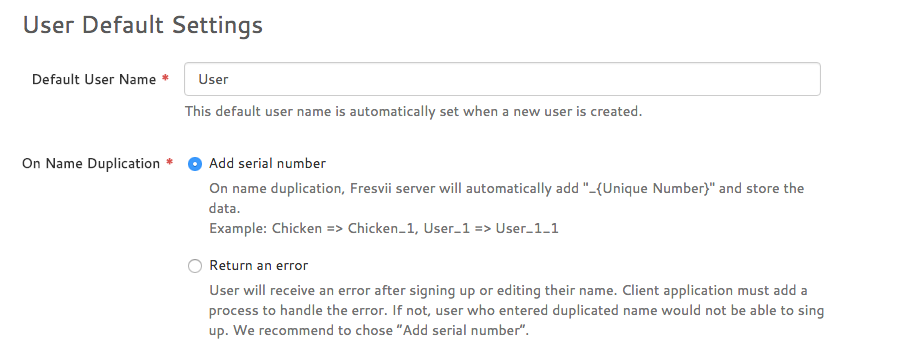
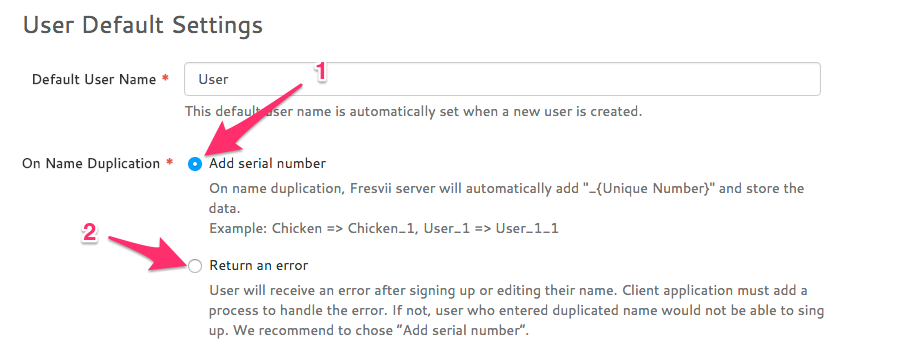
Added description about user name duplication to FASUser specification.

Changed region(s): [[0.182, 0.2479, 0.3337, 0.4958], [0.091, 0.6197, 0.2124, 0.7746], [0.3337, 0.1859, 0.364, 0.2479]]

diff --git a/ja/Specs/Spec-User.md b/ja/Specs/Spec-User.md
@@ -42,7 +42,8 @@ last update at 2014/10/8
 |[currentLoggedInUser](#FASAccount.currentLoggedInUser) |現在ログイン中のユーザーを返却します。 |
 
 ##### <a name="FASAccount.signUpUserWithCompletion">　signUpUserWithCompletion: </a>
-何も指定せずにサインアップをします。
+何も指定せずにサインアップをします。  
+ユーザー重複時の挙動に関しては[こちら](../8_ユーザー名重複時の挙動に関して.md)を参照してください。
 
 \+ (void)signUpUserWithCompletion:(FASLoginUserHandler)completion
 
@@ -69,7 +70,8 @@ Sample
 ```
 
 ##### <a name="FASAccount.signUpUserWithNamecompletion"> signUpUserWithName:completion: </a>
-ユーザー名を指定してサインアップをします。
+ユーザー名を指定してサインアップをします。  
+ユーザー重複時の挙動に関しては[こちら](../8_ユーザー名重複時の挙動に関して.md)を参照してください。
 
 \+ (void)signUpUserWithName:(NSString *)userName
                   completion:(FASLoginUserHandler)completion
@@ -99,7 +101,8 @@ Sample
 ```
 
 ##### <a name="FASAccount.signUpUserWithNamedescriptionprofileImagecompletion"> signUpUserWithName:description:profileImage:completion: </a>
-指定したユーザー名、プロフィール文、プロフィール画像でサインアップをします。
+指定したユーザー名、プロフィール文、プロフィール画像でサインアップをします。  
+ユーザー重複時の挙動に関しては[こちら](../8_ユーザー名重複時の挙動に関して.md)を参照してください。
 
 \+ (void)signUpUserWithName:(NSString *)userName
                 description:(NSString *)description
@@ -476,7 +479,8 @@ typedef void (^FASLoginUserCompletionHandler)(FASLoginUser *loginUser, NSError *
 |[reset](#FASLoginUser.reset) |プロフィールを変更前に戻します。 |
 
 ##### <a name="FASLoginUser.saveWithCompletion"> saveWithCompletion: </a>
-プロフィールの変更をサーバーに保存します。
+プロフィールの変更をサーバーに保存します。  
+ユーザー重複時の挙動に関しては[こちら](../8_ユーザー名重複時の挙動に関して.md)を参照してください。
 
 \- (void)saveWithCompletion:(FASCompletionHandler)completion
 

diff --git a/ja/8_ユーザー名重複時の挙動に関して.md b/ja/8_ユーザー名重複時の挙動に関して.md
@@ -18,14 +18,32 @@
 例えば`Chicken`というユーザー名が既に利用されてた場合、同じ名前でサインアップまたは名前変更を行おうとした場合、`Chicken_1`という名前で自動的に登録されるようになります。
 
 ### 2を選択した場合
-ユーザー名が重複した場合はAPIで下記のようなエラーを返却するようになります。
+ユーザー名が重複した場合はAPIで下記のようなエラーがNSErrorオブジェクトに格納されて返却されます。
 
 ```
-
+Error Domain=com.fresvii.fresvii-sdk-ios.error Code=2002 "The operation couldn’t be completed. (com.fresvii.fresvii-sdk-ios.error error 2002.)" UserInfo=0x7fe220d1c3e0 {code=0402, message=Validation failed: Name has already been taken, params=<CFBasicHash 0x7fe220dadd40 [0x11469e180]>{type = immutable dict, count = 3,
+entries =>
+ 0 : <CFString 0x7fe220d8bac0 [0x11469e180]>{contents = "name_uniqueness"} = <CFString 0x7fe220d8baf0 [0x11469e180]>{contents = "true"}
+ 1 : <CFString 0x7fe220d3c370 [0x11469e180]>{contents = "text/plain"} = <CFString 0x7fe220d1c390 [0x11469e180]>{contents = "[""]"}
+ 2 : <CFString 0x7fe220d8baa0 [0x11469e180]>{contents = "description"} = <CFString 0x7fe220d8baa0 [0x11469e180]>{contents = "description"}
+}
+, error=ArgumentError}
 ```
 
-このエラーをハンドリングすることでユーザー名重複の理由でサインアップ出来ないなど情報をユーザーに伝えることができます。
+このエラーをハンドリングすることでユーザー名重複の理由でサインアップ出来ないなど情報をユーザーに伝えることができます。  
+例えば以下のようにハンドリングすることができます。
 
-```
-
+```obj-c
+- (void)_showErrorAlert:(NSError *)error
+{
+    NSDictionary *userInfo = error.userInfo;
+    if ([userInfo[@"code"] isEqualToString:@"0402"])
+    {
+        [[[UIAlertView alloc] initWithTitle:@"Error"
+                                    message:@"Your user name is duplicated. Please use other user name."
+                                   delegate:nil
+                          cancelButtonTitle:@"OK"
+                          otherButtonTitles:nil] show];
+    }
+}
 ```
